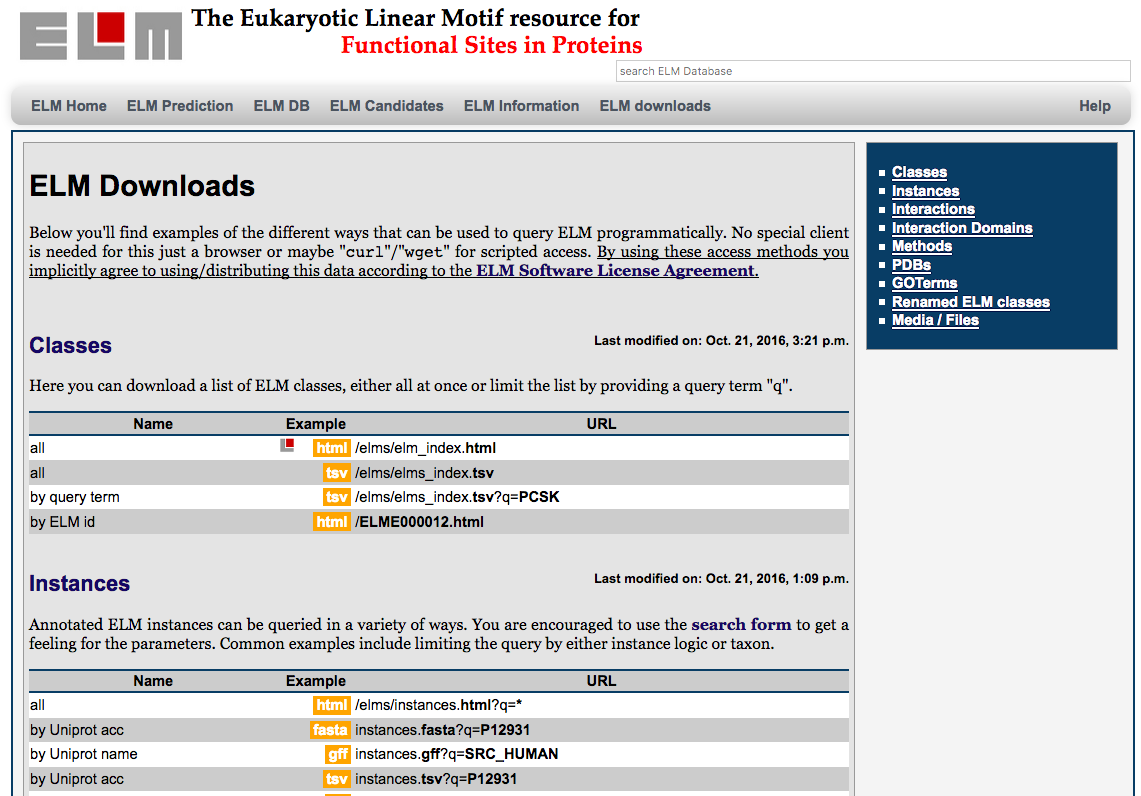
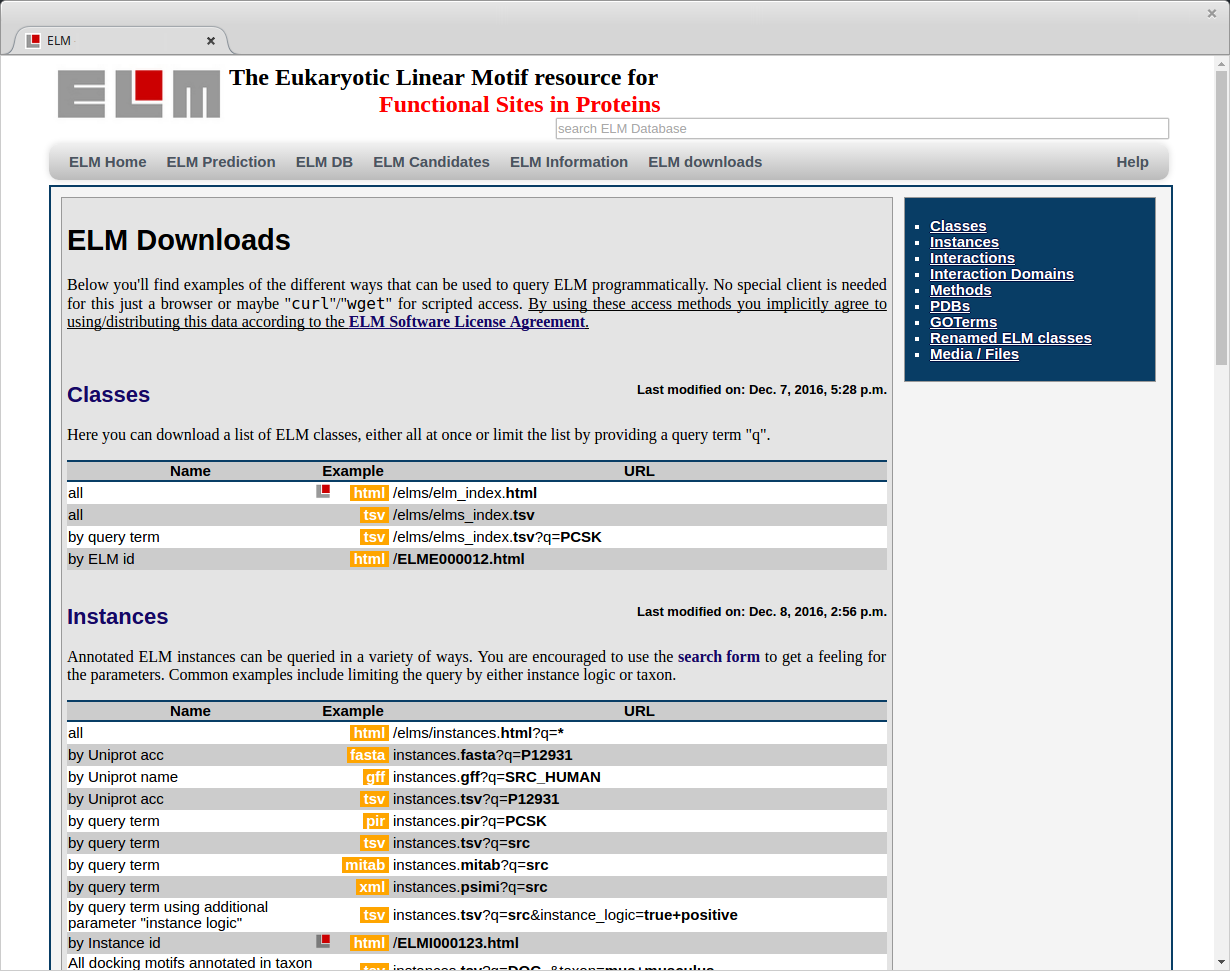
Modified BACT AP2 text and updated figure.

diff --git a/6-BACT_alternate_protocol_2.md b/6-BACT_alternate_protocol_2.md
@@ -1,12 +1,19 @@
 # Alternate Protocol 3: Searching the ELM database using REST API
 
+All of the data in ELM is available to download so that anyone can also run
+their analyses locally, on their own computer. In many cases it also is useful access data programatically, via an Application Programming Interface (API). ELM provies many features to query, search, filter and download data withouth having to use a browser.
+
+In this section we will explore the various ways in which data can downloaded
+both in using the browser as well as via the commandline. 
 
 ## Necessary Resources
 
 ### Software
 
-Ideally use `curl` https://curl.haxx.se/ on the commandline.
-However, any browser can be used to access the server, most browsers however download text- and csv-files instead of displaying them. Therefore, for trying out different URLs / Parameters, it might be better to use a commandline client such as `curl`.
+Ideally use `curl` https://curl.haxx.se/ on the commandline. This program can
+be launched from the terminal in any of the major operating systems: OSX,
+Windows and Linux. Of course `curl` is only one of many different ways to
+access web content programatically, and we suggest anyone to use which ever program they feel is better suited for their tasks.
 
 ## Downloading all ELM classes
 
@@ -19,91 +26,91 @@ links, the URL following them are used to highlight the URL scheme used by the
 server (bold font denotes specifics used in the examples such as query terms,
 or formats).
 
-step 1. Direct your browser to the URL 'http://elm.eu.org/downloads' or choose 'ELM Downloads' from the Menu at 'http://elm.eu.org' (see the [/Figures/elm_downloads_html.png](screenshot) figure showing the ELM downloads website).
+step 1. Direct your browser to the URL 'http://elm.eu.org/downloads' or select 
+'ELM Downloads' from the main Menu (Figure ELM-Downloads) This webpage contains
+links and descriptions on how to download ELM data in text format. The
+datasets are split into several smaller collections (for example
+"Classes", "Instances", etc). Each table contains links (in orange) to download
+the data in various formats.
 
-> This webpage contains links and descriptions on how to download ELM data in text format.
-> The information is separated in individual tables, eg. for 'Classes', 'Instances', and so on...
-> Note that each table also shows the 'last modified date' indicating when the particular data was last updated.
-> This is useful if you regularly want to update your local data with ELM data, as you can quickly check whether you actually _need_ to download the files again...
-> Note the orange colored download links highlighting different formats:
-> For many pages, which exist in html format (ending in '.html'), there also exists an additional URL/file extension to get the data in other formats.
+> Each table also shows the 'last modified date' indicating when the data was last updated. This is useful if you want to know when to update your local data with the most up to date ELM data.
 
-step 2. Click on the first orange 'html' link in the table "Classes" or use the following URL: 'http://elm.eu.org/elms.html'
+![](Figures/BACT_2/elm_downloads_html.png)
 
-> This webpage shows all annotated ELM classes.
-> Next, we are going to use the query parameter 'q' to limit our search
+**Figure ELM-Downloads:** The ELM downloads page, which holds information about
+the different types of data (such as "Classes", "Instances", etc; see menu to
+the right) that can be obtained from the server. The orange boxes are clickable
+links, the URL following them are used to highlight the URL scheme used by the
+server (bold font denotes specifics used in the examples such as query terms,
+or formats).
 
-step 3. Use the following URL: 'http://elm.eu.org/elms.html?q=CSK'
+step 2. Click on the first orange 'html' link in the table "Classes" to
+navigate to the following URL: 'http://elm.eu.org/elms/elm_index.html'. This
+page shows all of the annotated ELM classes in the database. This page is
+the same one as shown in Figure *TP53-BP1-classses*
 
-> This will again show the webpage with all annotated ELM classes, this time however limited to those matching the query term 'PCSK'.
-> Next, we are going to use the same URL pattern, but with '.tsv' to download the same data as actual data, not HTML.
+step 3. Navidate to the folling URL: 'http://elm.eu.org/elms.html?q=CSK',
+specifying "q=CSK" to limit the list of ELMs to those matching the search query
+"CSK". This page is again similar to the one shown in Figure
+*TP53-BP1-classses*, but with less classes.
+
+> This search result is identical to the result you would obtain by doing a
+> "manual" search on the ELM Classes page (http://elm.eu.org/elms.html). The
+> column descriptions are also the same as described in Step XXX in Protocol
+> YYY.
 
 ![](Figures/BACT_2/elm_curl_classes_CSK.png)
 **Figure ELM-Curl-Classes**:
 Screenshot of a terminal window using `curl` to download all ELM classes matching the term 'CSK'.
 
-step 4. Use the following URL: 'http://elm.eu.org/elms.tsv?q=CSK'
+step 4. Open the following URL: 'http://elm.eu.org/elms.tsv?q=CSK' to download
+a list of classes that match the search query "CSK" (as in the previous step)
+in the "tab separated values" format.  By exchanging the '.html' part of the
+url with '.tsv', we ask the webserver to give us the data in TSV
+(tab-separated values) format.
 
-> By exchanging the '.html' part of the url with '.tsv', we ask the webserver to give us the data in TSV (tab-separated) format.
-> This query should download a file such as the following:
-```
-> curl 'http://elm.eu.org/elms.tsv?q=CSK'
-#ELM_Classes_Download_Version: 1.4
-#ELM_Classes_Download_Date: 2016-11-06 17:39:41.503341
-#Origin: elm.eu.org
-#Type: tsv
-#Num_Classes: 7
-"Accession"	"ELMIdentifier"	"FunctionalSiteName"	"Description"	"Regex"	"Probability"	"#Instances"	"#Instances_in_PDB"
-"ELME000101"	"CLV_PCSK_FUR_1"	"PCSK cleavage site"	"Furin (PACE) cleavage site (R-X-[RK]-R-|-X)."	"R.[RK]R."	"0.000508722921034"	"13"	"0"
-"ELME000108"	"CLV_PCSK_KEX2_1"	"PCSK cleavage site"	"Yeast kexin 2 cleavage site (K-R-|-X or R-R-|-X)."	"[KR]R."	"0.007973463544"	"1"	"0"
-"ELME000100"	"CLV_PCSK_PC1ET2_1"	"PCSK cleavage site"	"NEC1/NEC2 cleavage site (K-R-|-X)."	"KR."	"0.00390276834"	"6"	"0"
-"ELME000103"	"CLV_PCSK_PC7_1"	"PCSK cleavage site"	"Proprotein convertase 7 (PC7, PCSK7) cleavage site (R-X-X-X-[RK]-R-|-X)."	"R...[KR]R."	"0.000508722921034"	"1"	"0"
-"ELME000146"	"CLV_PCSK_SKI1_1"	"PCSK cleavage site"	"Subtilisin/kexin isozyme-1 (SKI1) cleavage site ([RK]-X-[hydrophobic]-[LTKF]-|-X)."	"[RK].[AILMFV][LTKF]."	"0.00682052736444"	"2""0"
-"ELME000424"	"LIG_CSK_EPIYA_1"	"EPIYA ligand motif for CSK-SH2"	"Csk Src Homology 2 (SH2) domain binding EPIYA motif"	"EP[IL]Y[TAG]"	"2.46761307667e-06"	"13"	"0"
-"ELME000013"	"MOD_TYR_CSK"	"TYR phosphorylation site"	"Members of the non-receptor tyrosine kinase Csk family phosphorylate the C-terminal tyrosine residues of the Src family."	"[TAD][EA].Q(Y)[QE].[GQA][PEDLS]"	"2.92617843803e-07"	"12"	"0"
-```
+> Depending on which browser you are using, the file may open directly in your
+> browser, or you may be prompted to download the file or save it to a separate
+> location. In the latter two cases you can open the downloaded file using a
+> (plain) text file viewer, or possible a spreadsheet viewer (such as Microsoft
+> Excel). 
 
+step 5. Type the follwing command into a command line terminal to download the
+same data from the previous step directly into the terminal: `curl
+'http://elm.eu.org/elms/elms_index.tsv?q=CSK'`. The output should look similar
+to *Figure ELM-Curl-Classes*. The column names are still the same ones as shown
+in the _classes_ table in Figure *BACT-AP2-Elm-classes-downloads*.
+
+> Use the curl option `-o` to save the results directly to a file. For example: 
+> `curl -o classes.tsv 'http://elm.eu.org/elms/elms_index.tsv?q=CSK'` will save
+> the data to a file called _classes.tsv_.
+
+step 6: To download a list of all motif instances detected in Human P53, type
+the followin command into a terminal: `curl
+'http://elm.eu.org/instances.gff?q=p53_human'`. The output should look similar
+to that shown in figure *Figure ELM-Curl-P53*. The output is in the "General
+Feature Format" (http://www.ensembl.org/info/website/upload/gff.html#moreinfo),
+with the FASTA formatted sequence appended to the end of the output.
+
+> Many other file formats are available for downloading instances annotations,
+> including the FASTA, GFF, PIR, or PSI-MI format (either XML or MiTab)
+> [24067240]. 
 
 ![](Figures/BACT_2/elm_curl_instances_p53_human.png)
 **Figure ELM-Curl-Instances-P53**:
-Screenshot of a terminal window using `curl` to download all ELM instances annotated for sequence p53_human.
+Screenshot of a terminal window using `curl` to download all ELM instances
+annotated for sequence p53_human.
 
+step 7. To download a list of all instances matchin th search query "CLV" in
+the yellow fever mosquito (Aedes agypti), enter the following command into a
+terminal: `curl 'http://elm.eu.org/instances.tsv?q=CLV&taxon=aedes+aegypti'. In
+general any species name can be used, always replacing the "space" with a "+".
+This should return a single instance, the only one matching CLV in A. aegypti.
 
-step 4. Use the following URL: 'http://elm.eu.org/instances.gff?q=p53_human'
-
-```
-> curl 'http://elm.eu.org/instances.gff?q=p53_human'
-##gff-version 3
-P04637	ELM	sequence_feature	19	26	.	.	.	ID=DEG_MDM2_SWIB_1
-P04637	ELM	sequence_feature	381	385	.	.	.	ID=DOC_CYCLIN_1
-P04637	ELM	sequence_feature	359	363	.	.	.	ID=DOC_USP7_MATH_1
-P04637	ELM	sequence_feature	364	368	.	.	.	ID=DOC_USP7_MATH_1
-P04637	ELM	sequence_feature	30	35	.	.	.	ID=DOC_WW_Pin1_4
-P04637	ELM	sequence_feature	78	83	.	.	.	ID=DOC_WW_Pin1_4
-P04637	ELM	sequence_feature	312	317	.	.	.	ID=DOC_WW_Pin1_4
-P04637	ELM	sequence_feature	15	21	.	.	.	ID=MOD_CK1_1
-P04637	ELM	sequence_feature	30	37	.	.	.	ID=MOD_GSK3_1
-P04637	ELM	sequence_feature	12	18	.	.	.	ID=MOD_PIKK_1
-P04637	ELM	sequence_feature	385	388	.	.	.	ID=MOD_SUMO_for_1
-P04637	ELM	sequence_feature	339	352	.	.	.	ID=TRG_NES_CRM1_1
-P04637	ELM	sequence_feature	305	323	.	.	.	ID=TRG_NLS_Bipartite_1
-##FASTA
->P04637
-MEEPQSDPSVEPPLSQETFSDLWKLLPENNVLSPLPSQAMDDLMLSPDDIEQWFTEDPGPDEAPRMPEAAPPVAPAPAAPTPAAPAPAPSWPLSSSVPSQKTYQGSYGFRLGFLHSGTAKSVTCTYSPALNKMFCQLAKTCPVQLWVDSTPPPGTRVRAMAIYKQSQHMTEVVRRCPHHERCSDSDGLAPPQHLIRVEGNLRVEYLDDRNTFRHSVVVPYEPPEVGSDCTTIHYNYMCNSSCMGGMNRRPILTIITLEDSSGNLLGRNSFEVRVCACPGRDRRTEEENLRKKGEPHHELPPGSTKRALPNNTSSSPQPKKKPLDGEYFTLQIRGRERFEMFRELNEALELKDAQAGKEPGGS
-```
-
-step 5. Use the following URL: 'http://elm.eu.org/instances.tsv?q=CLV_&taxon=aedes+agypti'
-
-> Use the query term 'q=CLV_' to get all instances of cleavage site classes.
-> To limit your search to 'yellow fever mosquito' instances, use the parameter 'taxon=' followed by the taxon's scientific name, replacing spaces with '+':
-
-```
-> curl 'http://elm.eu.org/instances.tsv?q=CLV_&taxon=aedes+agypti'
-```
-
-More data (interactions, domains, methods, etc.) can be downloaded from ELM in
-analogous fashion. Different formats are available depending on data type (the most
-common format is TSV), for example ELM instances can be downloaded in TSV, FASTA, GFF, PIR,
-or PSI-MI format (either XML or MiTab) [24067240].
+step 8. More data (interactions, domains, methods, etc.) can be downloaded from
+ELM in analogous fashion as shown in the preceeding steps. Take a look at the
+ELM Downloads page (http://elm.eu.org/downloads, Figure
+*BACT-AP2-Elm-downloads*) for an overview of which datasets can be downloaded,
+and what the different possible filters and formats are for each dataset.
 
 % NOTE: TODO: Mention ELM software license agreement?
